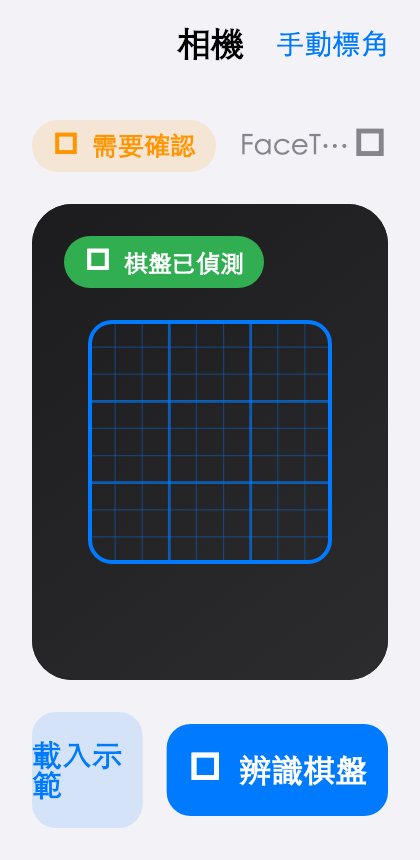
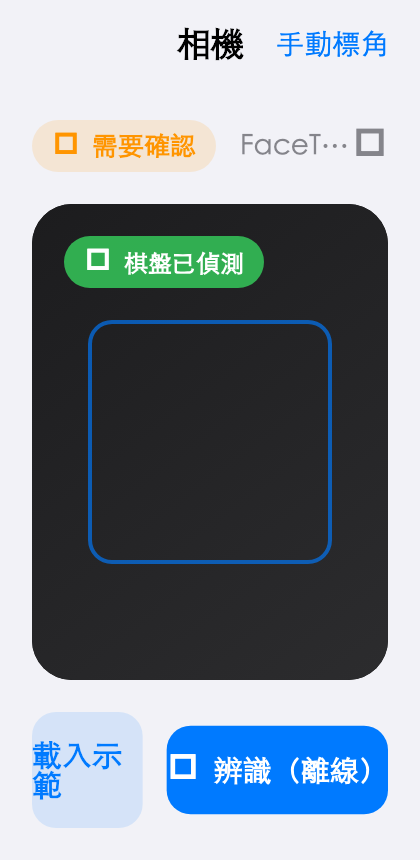
Wire Camera page preview to host bridge (live MJPEG)
The dark gradient placeholder is gone — when a bridge is reachable the
camera page now shows the actual live frame.

app/lib/widgets/live_preview.dart
- LivePreview polls <bridgeUrl>/frame.jpg via http.Client at fps Hz
  (default 5), decodes each response with Image.memory(gaplessPlayback:
  true), and falls back to placeholderBuilder/errorBuilder while the
  bridge is unreachable or no frame has arrived yet. Cleans up the
  client + timer on dispose, rearms on bridgeUrl/fps changes.

app/lib/data/sudoku_repository.dart
- New bridgeUrl field (default http://localhost:8765) with setter. Kept
  separate from apiEndpoint because the recogniser lives in a container
  while the bridge serves frames from the host (Docker Desktop can't
  pass USB cameras through).

app/lib/pages/settings_page.dart
- New "Bridge URL" row + edit dialog. Footer explains the split
  (Bridge URL = host preview; SUDOKU_STREAM_URL = container reader).

app/lib/pages/camera_page.dart
- _PreviewFrame embeds LivePreview as the bottom layer. The fake 9x9
  grid painter is dropped; only a thin guide rectangle (auto mode) or
  the draggable corner handles (manual mode) sit on top of the frame.
- Button label shortened to "辨識（離線）" / "從後端抓 frame" and wrapped
  in FittedBox so narrow viewports no longer overflow.

Tests + screenshots regenerated (11 Flutter tests, all green).

Changed region(s): [[0.1857, 0.3628, 0.8048, 0.6651], [0.4024, 0.8767, 0.8976, 0.9372], [0.8976, 0.8465, 0.9286, 0.8767]]

diff --git a/app/lib/widgets/live_preview.dart b/app/lib/widgets/live_preview.dart
@@ -1,0 +1,131 @@
+import 'dart:async';
+import 'dart:typed_data';
+
+import 'package:flutter/cupertino.dart';
+import 'package:http/http.dart' as http;
+
+/// Polls `<bridgeUrl>/frame.jpg` at ~[fps] Hz and displays each frame as an
+/// [Image.memory]. Falls back to a placeholder builder when the bridge is
+/// unreachable or no frame has arrived yet.
+class LivePreview extends StatefulWidget {
+  const LivePreview({
+    super.key,
+    required this.bridgeUrl,
+    this.fps = 5.0,
+    this.timeout = const Duration(seconds: 2),
+    this.placeholderBuilder,
+    this.errorBuilder,
+  });
+
+  final String bridgeUrl;
+  final double fps;
+  final Duration timeout;
+  final WidgetBuilder? placeholderBuilder;
+  final Widget Function(BuildContext, Object error)? errorBuilder;
+
+  @override
+  State<LivePreview> createState() => _LivePreviewState();
+}
+
+class _LivePreviewState extends State<LivePreview> {
+  late http.Client _client;
+  Uint8List? _bytes;
+  Object? _lastError;
+  Timer? _timer;
+  bool _fetching = false;
+  bool _disposed = false;
+
+  @override
+  void initState() {
+    super.initState();
+    _client = http.Client();
+    _scheduleNext();
+  }
+
+  @override
+  void didUpdateWidget(covariant LivePreview oldWidget) {
+    super.didUpdateWidget(oldWidget);
+    if (oldWidget.bridgeUrl != widget.bridgeUrl ||
+        oldWidget.fps != widget.fps) {
+      _timer?.cancel();
+      _bytes = null;
+      _lastError = null;
+      _scheduleNext(immediate: true);
+    }
+  }
+
+  @override
+  void dispose() {
+    _disposed = true;
+    _timer?.cancel();
+    _client.close();
+    super.dispose();
+  }
+
+  void _scheduleNext({bool immediate = false}) {
+    if (_disposed) return;
+    final period = Duration(milliseconds: (1000 / widget.fps).round());
+    _timer = Timer(immediate ? Duration.zero : period, _tick);
+  }
+
+  Future<void> _tick() async {
+    if (_disposed) return;
+    if (_fetching) {
+      _scheduleNext();
+      return;
+    }
+    _fetching = true;
+    try {
+      final base = Uri.parse(widget.bridgeUrl);
+      final url = base.replace(path: _joinPath(base.path, '/frame.jpg'));
+      final response = await _client
+          .get(url, headers: const {'cache-control': 'no-cache'})
+          .timeout(widget.timeout);
+      if (_disposed) return;
+      if (response.statusCode == 200 && response.bodyBytes.isNotEmpty) {
+        setState(() {
+          _bytes = response.bodyBytes;
+          _lastError = null;
+        });
+      } else {
+        setState(() => _lastError = 'HTTP ${response.statusCode}');
+      }
+    } catch (err) {
+      if (!_disposed) setState(() => _lastError = err);
+    } finally {
+      _fetching = false;
+      _scheduleNext();
+    }
+  }
+
+  String _joinPath(String basePath, String suffix) {
+    if (basePath.isEmpty || basePath == '/') return suffix;
+    return basePath.endsWith('/')
+        ? basePath.substring(0, basePath.length - 1) + suffix
+        : basePath + suffix;
+  }
+
+  @override
+  Widget build(BuildContext context) {
+    if (_bytes != null) {
+      return Image.memory(
+        _bytes!,
+        gaplessPlayback: true,
+        fit: BoxFit.contain,
+        filterQuality: FilterQuality.medium,
+      );
+    }
+    if (_lastError != null && widget.errorBuilder != null) {
+      return widget.errorBuilder!(context, _lastError!);
+    }
+    if (widget.placeholderBuilder != null) {
+      return widget.placeholderBuilder!(context);
+    }
+    return const ColoredBox(
+      color: CupertinoColors.black,
+      child: Center(
+        child: CupertinoActivityIndicator(color: CupertinoColors.white),
+      ),
+    );
+  }
+}

diff --git a/app/lib/pages/camera_page.dart b/app/lib/pages/camera_page.dart
@@ -1,6 +1,7 @@
 import 'package:flutter/cupertino.dart';
 
 import '../models/sudoku_state.dart';
+import '../widgets/live_preview.dart';
 import '../widgets/repository_scope.dart';
 import '../widgets/status_pill.dart';
 
@@ -54,6 +55,7 @@ class _CameraPageState extends State<CameraPage> {
               const SizedBox(height: 16),
               Expanded(
                 child: _PreviewFrame(
+                  bridgeUrl: repo.bridgeUrl,
                   corners: _corners,
                   manual: _manualMode,
                   onCornersChanged: (next) =>
@@ -174,11 +176,13 @@ class _StatusRow extends StatelessWidget {
 
 class _PreviewFrame extends StatelessWidget {
   const _PreviewFrame({
+    required this.bridgeUrl,
     required this.corners,
     required this.manual,
     required this.onCornersChanged,
   });
 
+  final String bridgeUrl;
   final List<Offset> corners;
   final bool manual;
   final ValueChanged<List<Offset>> onCornersChanged;
@@ -195,7 +199,13 @@ class _PreviewFrame extends StatelessWidget {
             return Stack(
               fit: StackFit.expand,
               children: [
-                CustomPaint(painter: _PreviewPainter()),
+                LivePreview(
+                  bridgeUrl: bridgeUrl,
+                  placeholderBuilder: (_) =>
+                      CustomPaint(painter: _PreviewPainter()),
+                  errorBuilder: (_, _) =>
+                      CustomPaint(painter: _PreviewPainter()),
+                ),
                 CustomPaint(
                   painter: _BoardOverlayPainter(
                     color: outline,
@@ -203,6 +213,8 @@ class _PreviewFrame extends StatelessWidget {
                     showGrid: !manual,
                   ),
                 ),
+                // Auto-detect overlay is now a thin guide rectangle over the
+                // live frame so the user can frame the board.
                 if (!manual)
                   Center(
                     child: AspectRatio(
@@ -212,9 +224,11 @@ class _PreviewFrame extends StatelessWidget {
                         child: DecoratedBox(
                           decoration: BoxDecoration(
                             borderRadius: BorderRadius.circular(12),
-                            border: Border.all(color: outline, width: 2),
+                            border: Border.all(
+                              color: outline.withValues(alpha: 0.65),
+                              width: 2,
+                            ),
                           ),
-                          child: CustomPaint(painter: _BoardGridPainter(outline)),
                         ),
                       ),
                     ),
@@ -361,32 +375,6 @@ class _BoardOverlayPainter extends CustomPainter {
       oldDelegate.corners != corners || oldDelegate.showGrid != showGrid;
 }
 
-class _BoardGridPainter extends CustomPainter {
-  _BoardGridPainter(this.color);
-
-  final Color color;
-
-  @override
-  void paint(Canvas canvas, Size size) {
-    final thin = Paint()
-      ..color = color.withValues(alpha: 0.35)
-      ..strokeWidth = 0.6;
-    final thick = Paint()
-      ..color = color.withValues(alpha: 0.65)
-      ..strokeWidth = 1.4;
-    final step = size.width / 9;
-    for (var i = 1; i < 9; i++) {
-      final isThick = i % 3 == 0;
-      final p = isThick ? thick : thin;
-      canvas.drawLine(Offset(step * i, 0), Offset(step * i, size.height), p);
-      canvas.drawLine(Offset(0, step * i), Offset(size.width, step * i), p);
-    }
-  }
-
-  @override
-  bool shouldRepaint(covariant CustomPainter oldDelegate) => false;
-}
-
 class _CameraBadge extends StatelessWidget {
   const _CameraBadge({
     required this.icon,
@@ -468,22 +456,25 @@ class _ActionRow extends StatelessWidget {
             onPressed: busy ? null : onCaptured,
             child: busy
                 ? const CupertinoActivityIndicator(color: CupertinoColors.white)
-                : Row(
-                    mainAxisAlignment: MainAxisAlignment.center,
-                    children: [
-                      Icon(
-                        hasBackend
-                            ? CupertinoIcons.cloud_download
-                            : CupertinoIcons.camera,
-                        size: 18,
-                      ),
-                      const SizedBox(width: 8),
-                      Text(
-                        hasBackend ? '從後端抓 frame' : '辨識棋盤（離線示範）',
-                        style: const TextStyle(
-                            fontSize: 16, fontWeight: FontWeight.w600),
-                      ),
-                    ],
+                : FittedBox(
+                    fit: BoxFit.scaleDown,
+                    child: Row(
+                      mainAxisSize: MainAxisSize.min,
+                      children: [
+                        Icon(
+                          hasBackend
+                              ? CupertinoIcons.cloud_download
+                              : CupertinoIcons.camera,
+                          size: 18,
+                        ),
+                        const SizedBox(width: 8),
+                        Text(
+                          hasBackend ? '從後端抓 frame' : '辨識（離線）',
+                          style: const TextStyle(
+                              fontSize: 16, fontWeight: FontWeight.w600),
+                        ),
+                      ],
+                    ),
                   ),
           ),
         ),

diff --git a/app/lib/pages/settings_page.dart b/app/lib/pages/settings_page.dart
@@ -18,12 +18,22 @@ class SettingsPage extends StatelessWidget {
           children: [
             CupertinoListSection.insetGrouped(
               header: const Text('相機'),
+              footer: const Text(
+                'Bridge URL 指向 host 端 sudoku_vision.host_camera 服務（macOS / Windows 用），'
+                '容器讀的是 SUDOKU_STREAM_URL，與 App 預覽是兩條路徑。',
+              ),
               children: [
                 CupertinoListTile(
                   title: const Text('來源'),
                   additionalInfo: Text(repo.cameraSource),
                   trailing: const CupertinoListTileChevron(),
                   onTap: () => _pickCameraSource(context, repo),
+                ),
+                CupertinoListTile(
+                  title: const Text('Bridge URL'),
+                  subtitle: Text(repo.bridgeUrl),
+                  trailing: const CupertinoListTileChevron(),
+                  onTap: () => _editBridgeUrl(context, repo),
                 ),
               ],
             ),
@@ -168,6 +178,42 @@ class SettingsPage extends StatelessWidget {
         ],
       ),
     );
+  }
+
+  Future<void> _editBridgeUrl(BuildContext context, repo) async {
+    final controller = TextEditingController(text: repo.bridgeUrl);
+    final value = await showCupertinoDialog<String>(
+      context: context,
+      builder: (dialog) {
+        return CupertinoAlertDialog(
+          title: const Text('Camera bridge URL'),
+          content: Padding(
+            padding: const EdgeInsets.only(top: 12),
+            child: CupertinoTextField(
+              controller: controller,
+              autofocus: true,
+              keyboardType: TextInputType.url,
+              placeholder: 'http://localhost:8765',
+            ),
+          ),
+          actions: [
+            CupertinoDialogAction(
+              isDestructiveAction: true,
+              onPressed: () => Navigator.of(dialog).pop(null),
+              child: const Text('取消'),
+            ),
+            CupertinoDialogAction(
+              isDefaultAction: true,
+              onPressed: () => Navigator.of(dialog).pop(controller.text.trim()),
+              child: const Text('儲存'),
+            ),
+          ],
+        );
+      },
+    );
+    if (value != null && value.isNotEmpty) {
+      repo.setBridgeUrl(value);
+    }
   }
 
   Future<void> _editEndpoint(BuildContext context, repo) async {

diff --git a/app/lib/data/sudoku_repository.dart b/app/lib/data/sudoku_repository.dart
@@ -30,6 +30,17 @@ class SudokuRepository extends ChangeNotifier {
   String _apiEndpoint = 'http://localhost:8080';
   String get apiEndpoint => _apiEndpoint;
 
+  /// Host camera bridge URL (the FastAPI server in `sudoku_vision.host_camera`).
+  /// Separate from [apiEndpoint] because the recogniser usually runs in a
+  /// container while the bridge serves frames from the host directly.
+  String _bridgeUrl = 'http://localhost:8765';
+  String get bridgeUrl => _bridgeUrl;
+
+  void setBridgeUrl(String value) {
+    _bridgeUrl = value;
+    notifyListeners();
+  }
+
   bool _modelReady = true;
   bool get modelReady => _modelReady;
 

diff --git a/app/test/widget_test.dart b/app/test/widget_test.dart
@@ -38,7 +38,7 @@ void main() {
     expect(find.byType(CupertinoPageScaffold), findsOneWidget);
     expect(find.byType(CupertinoNavigationBar), findsOneWidget);
     // No backend wired up in this test → offline label.
-    expect(find.text('辨識棋盤（離線示範）'), findsOneWidget);
+    expect(find.text('辨識（離線）'), findsOneWidget);
     expect(find.text('棋盤已偵測'), findsOneWidget);
   });
 